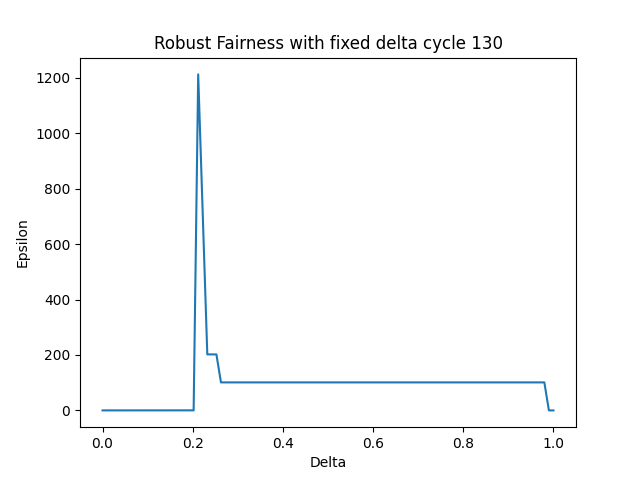
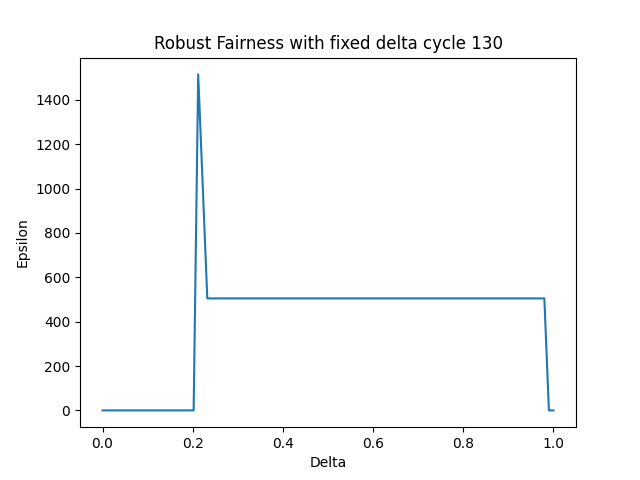
Add highest 5% bakers exp fairness occurrences histogram

diff --git a/tezos_analysis.py b/tezos_analysis.py
@@ -362,6 +362,58 @@ def plot_expectational_fairness_all_bakers_all_cycles_average(cycle_total_reward
     plt.close()
 
 
+def get_exp_fairness_highest_x_percent_bakers(x, cycle_total_reward_dict, baker_initial_cycle_dict, baker_initial_reward_dict, cycle_list_of_active_bakers_dict):
+    """returns exp fairness list of the x bakers with the highest values, and then make a histogram"""
+    exp_fair_highest_x_list = []
+    bakers_highest_x_list = []
+    for cycle in range(0, 398):
+        exp_fairness_list_c = exp_fairness_one_cycle(cycle, cycle_total_reward_dict, baker_initial_cycle_dict, baker_initial_reward_dict, cycle_list_of_active_bakers_dict)
+        bakers = get_baker_at_cycle(cycle)
+        # compute how many are the highest x %
+        num_entries_per_cycle = len(bakers)
+        num_x = int(np.ceil(x/100 * num_entries_per_cycle))
+        exp_fairness_dict_c = dict(zip(bakers, exp_fairness_list_c))
+        sorted_exp_fairness_dict_c = dict(sorted(exp_fairness_dict_c.items(), key=lambda item: item[1])) # sorted from lowest to highest
+        exp_fairness_list_highest_x = list(sorted_exp_fairness_dict_c.items())[-num_x:] # dict with highest x entries (exp fairness and address)
+        exp_fair_highest_x_list.append(list(dict(exp_fairness_list_highest_x).values()))
+        bakers_highest_x_list.append(list(dict(exp_fairness_list_highest_x).keys()))
+    return exp_fair_highest_x_list, bakers_highest_x_list  # 2 array of arrays (one array for each cycle)
+
+
+def plot_num_occurrences_highest_x_bakers(x, cycle_total_reward_dict, baker_initial_cycle_dict, baker_initial_reward_dict, cycle_list_of_active_bakers_dict):
+    """Histogram with occurrences of the highest 5 % of the bakers in each cycle -> how much does which address occur
+    (per cycle), once, twice, 5 times,... """
+    """on x axis number of occurrences, on y axis how many baker have these num occurrences"""
+    exp_fairness_highest_x_list, bakers_highest_x_list = get_exp_fairness_highest_x_percent_bakers(x, cycle_total_reward_dict, baker_initial_cycle_dict, baker_initial_reward_dict, cycle_list_of_active_bakers_dict)
+    num_occurrences = []
+    bakers = []
+    num_bakers_with_occ = []
+    bakers_list_flatten = [item for sublist in bakers_highest_x_list for item in sublist]
+    for baker in bakers_list_flatten:
+        # check if this bakers occurrence is not already tracked, if yes ignore and go to next baker
+        if not baker in bakers:
+            occ_baker = bakers_list_flatten.count(baker)
+            num_occurrences.append(occ_baker) # num_occurrences: how many times each baker in bakers occurs
+            bakers.append(baker)  # save the corresponding baker
+
+    occ_contained = []
+    for occ in num_occurrences:
+        if not occ in occ_contained:  # remove duplicates
+            num_bakers_with_occ.append(num_occurrences.count(occ)) # counts how many times a certain occurrencenumber of a baker occurs
+            occ_contained.append(occ)
+    # np.max(num_occurrences) -> 339 --> num_occurrences.index(339)=24 --> bakers[24]='tz1P7wwnURM4iccy9sSS6Bo2tay9JpuPHzf5'
+    # TODO: observe the above baker and some others as well
+    x_data = occ_contained
+    y_data = num_bakers_with_occ
+    index = np.arange(len(x_data))
+    bar_width = 0.9
+    plt.bar(index, y_data, bar_width, color="green")
+    plt.title('Number of occurrences of highest' + str(x) + '% bakers exp. Fairness')
+    plt.xlabel('Number of occurrences in highest' + str(x) + '% exp. Fairness')
+    plt.ylabel('Number of bakers')
+    plt.savefig('images/expectational_fairness/highest_' + str(5) + '_occurrences.png')
+
+
 def plot_expectational_fairness_onecycle(cycle, cycle_total_reward_dict, baker_initial_cycle_dict,
                                          baker_initial_reward_dict, cycle_list_of_active_bakers_dict):
     """plots expectational fairness for 1 specific cycle (all bakers)"""
@@ -543,7 +595,7 @@ def compute_robust_fairness_old(cycle, Deltas=np.linspace(0, 1, 100)):
     initial_bakers, initial_rewards, initial_totals = get_bakers_initial_rewards_at_cycle(cycle)
     EPS = np.empty([100])
     # Deltas = np.linspace(0, 1, 100)
-    Epsilons = np.linspace(0, 10000, 100)
+    Epsilons = np.linspace(0, 50000, 100)
 
     initial_stakes = []  # check if this array has correct length
     n = len(initial_rewards)
@@ -589,7 +641,7 @@ def compute_robust_fairness(cycle, Deltas=np.linspace(0, 1, 100)):
     """Robust fairness for one specific cycle and all bakers"""
     # Note: for some cycles like 130 the EPS value would need to be immensly high to satisfy this
     EPS = np.linspace(0, 1, 100)
-    Epsilons = np.linspace(0, 10000, 100)
+    Epsilons = np.linspace(0, 50000, 100)
 
     initial_stakes, fractions = get_stakes_and_fractions(cycle)
     initial_stakes = np.fromiter(initial_stakes, dtype=float)  # length of num bakers at cycle 0
@@ -873,6 +925,14 @@ if __name__ == '__main__':
                                                                   baker_initial_reward_dict,
                                                                   cycle_list_of_active_bakers_dict)
 
+    exp_fairness_highest5, highest5_bakers = get_exp_fairness_highest_x_percent_bakers(5, cycle_total_reward_dict, baker_initial_cycle_dict,
+                                                                  baker_initial_reward_dict,
+                                                                  cycle_list_of_active_bakers_dict)
+
+    plot_num_occurrences_highest_x_bakers(5, cycle_total_reward_dict, baker_initial_cycle_dict,
+                                                                  baker_initial_reward_dict,
+                                                                  cycle_list_of_active_bakers_dict)
+
     # Exp. Fairness overview plot (avg, lowest 5% resp. 1%, highest 5% resp. 1% in one plot)
     plot_exp_fairness_overview(cycle_total_reward_dict, baker_initial_cycle_dict,
                                baker_initial_reward_dict,
@@ -895,8 +955,8 @@ if __name__ == '__main__':
 
     # Robust fairness (we fix delta and a specific cycle and find epsilon) Note: for robust fairness cycles higher
     # than 6 we have very high EPS values and therefore plots look wrong at first sight
-    plot_robust_fairness_old(6)
-    plot_robust_fairness_old(50)
+    #plot_robust_fairness_old(6)
+    #plot_robust_fairness_old(50)
     plot_robust_fairness(50)
     plot_robust_fairness(6)
     # plot a robust fairness for every era (one cycle in each era)
